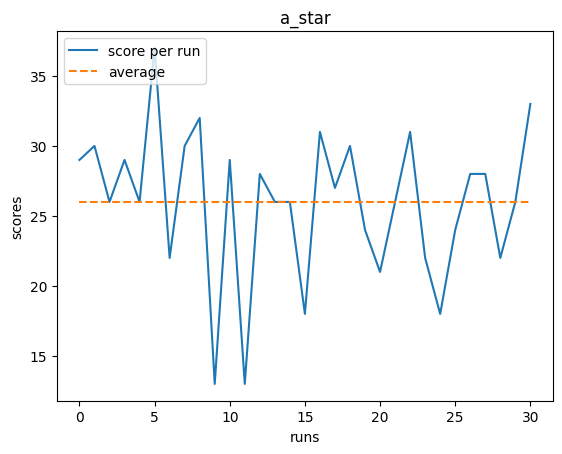
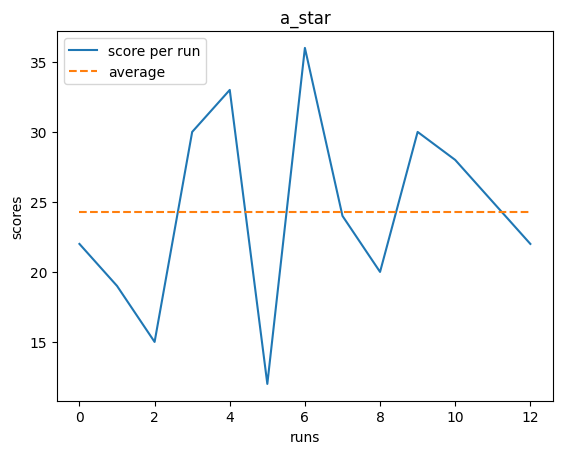
changing heuristic to euclidean distance

diff --git a/game/models/domain_specific/a_star_solver.py b/game/models/domain_specific/a_star_solver.py
@@ -5,6 +5,7 @@ from game.helpers.queue import Queue
 from game.models.base_game_model import BaseGameModel
 from game.helpers.priority_queue import PriorityQueue
 from game.environment.environment import Environment
+from math import sqrt
 
 
 class AStarSolver(BaseGameModel):
@@ -41,7 +42,17 @@ class AStarSolver(BaseGameModel):
                     if neighbor == Tile.empty or neighbor == Tile.fruit:
                         child_node = Node(child_node_point, action, previous_node=current_node)
                         if child_node.point not in point_to_running_weight:
-                            queue.push(child_node, point_to_running_weight[current_node.point] + 1 + heuristic)
+                            queue.push(child_node, point_to_running_weight[current_node.point] + 1 +
+                                       AStarSolver.heuristic_func(child_node.point, fruit_node.point))
                             point_to_running_weight[child_node.point] = point_to_running_weight[current_node.point] + 1
         return []
 
+    @staticmethod
+    def heuristic_func(current_point: Point, end_point: Point):
+        """
+        Simple Euclidean distance
+        :param current_point: current point of snake's head
+        :param end_point: point of fruit
+        :return:
+        """
+        return sqrt(((end_point.x - current_point.x) ** 2) + ((end_point.y - current_point.y) ** 2))
